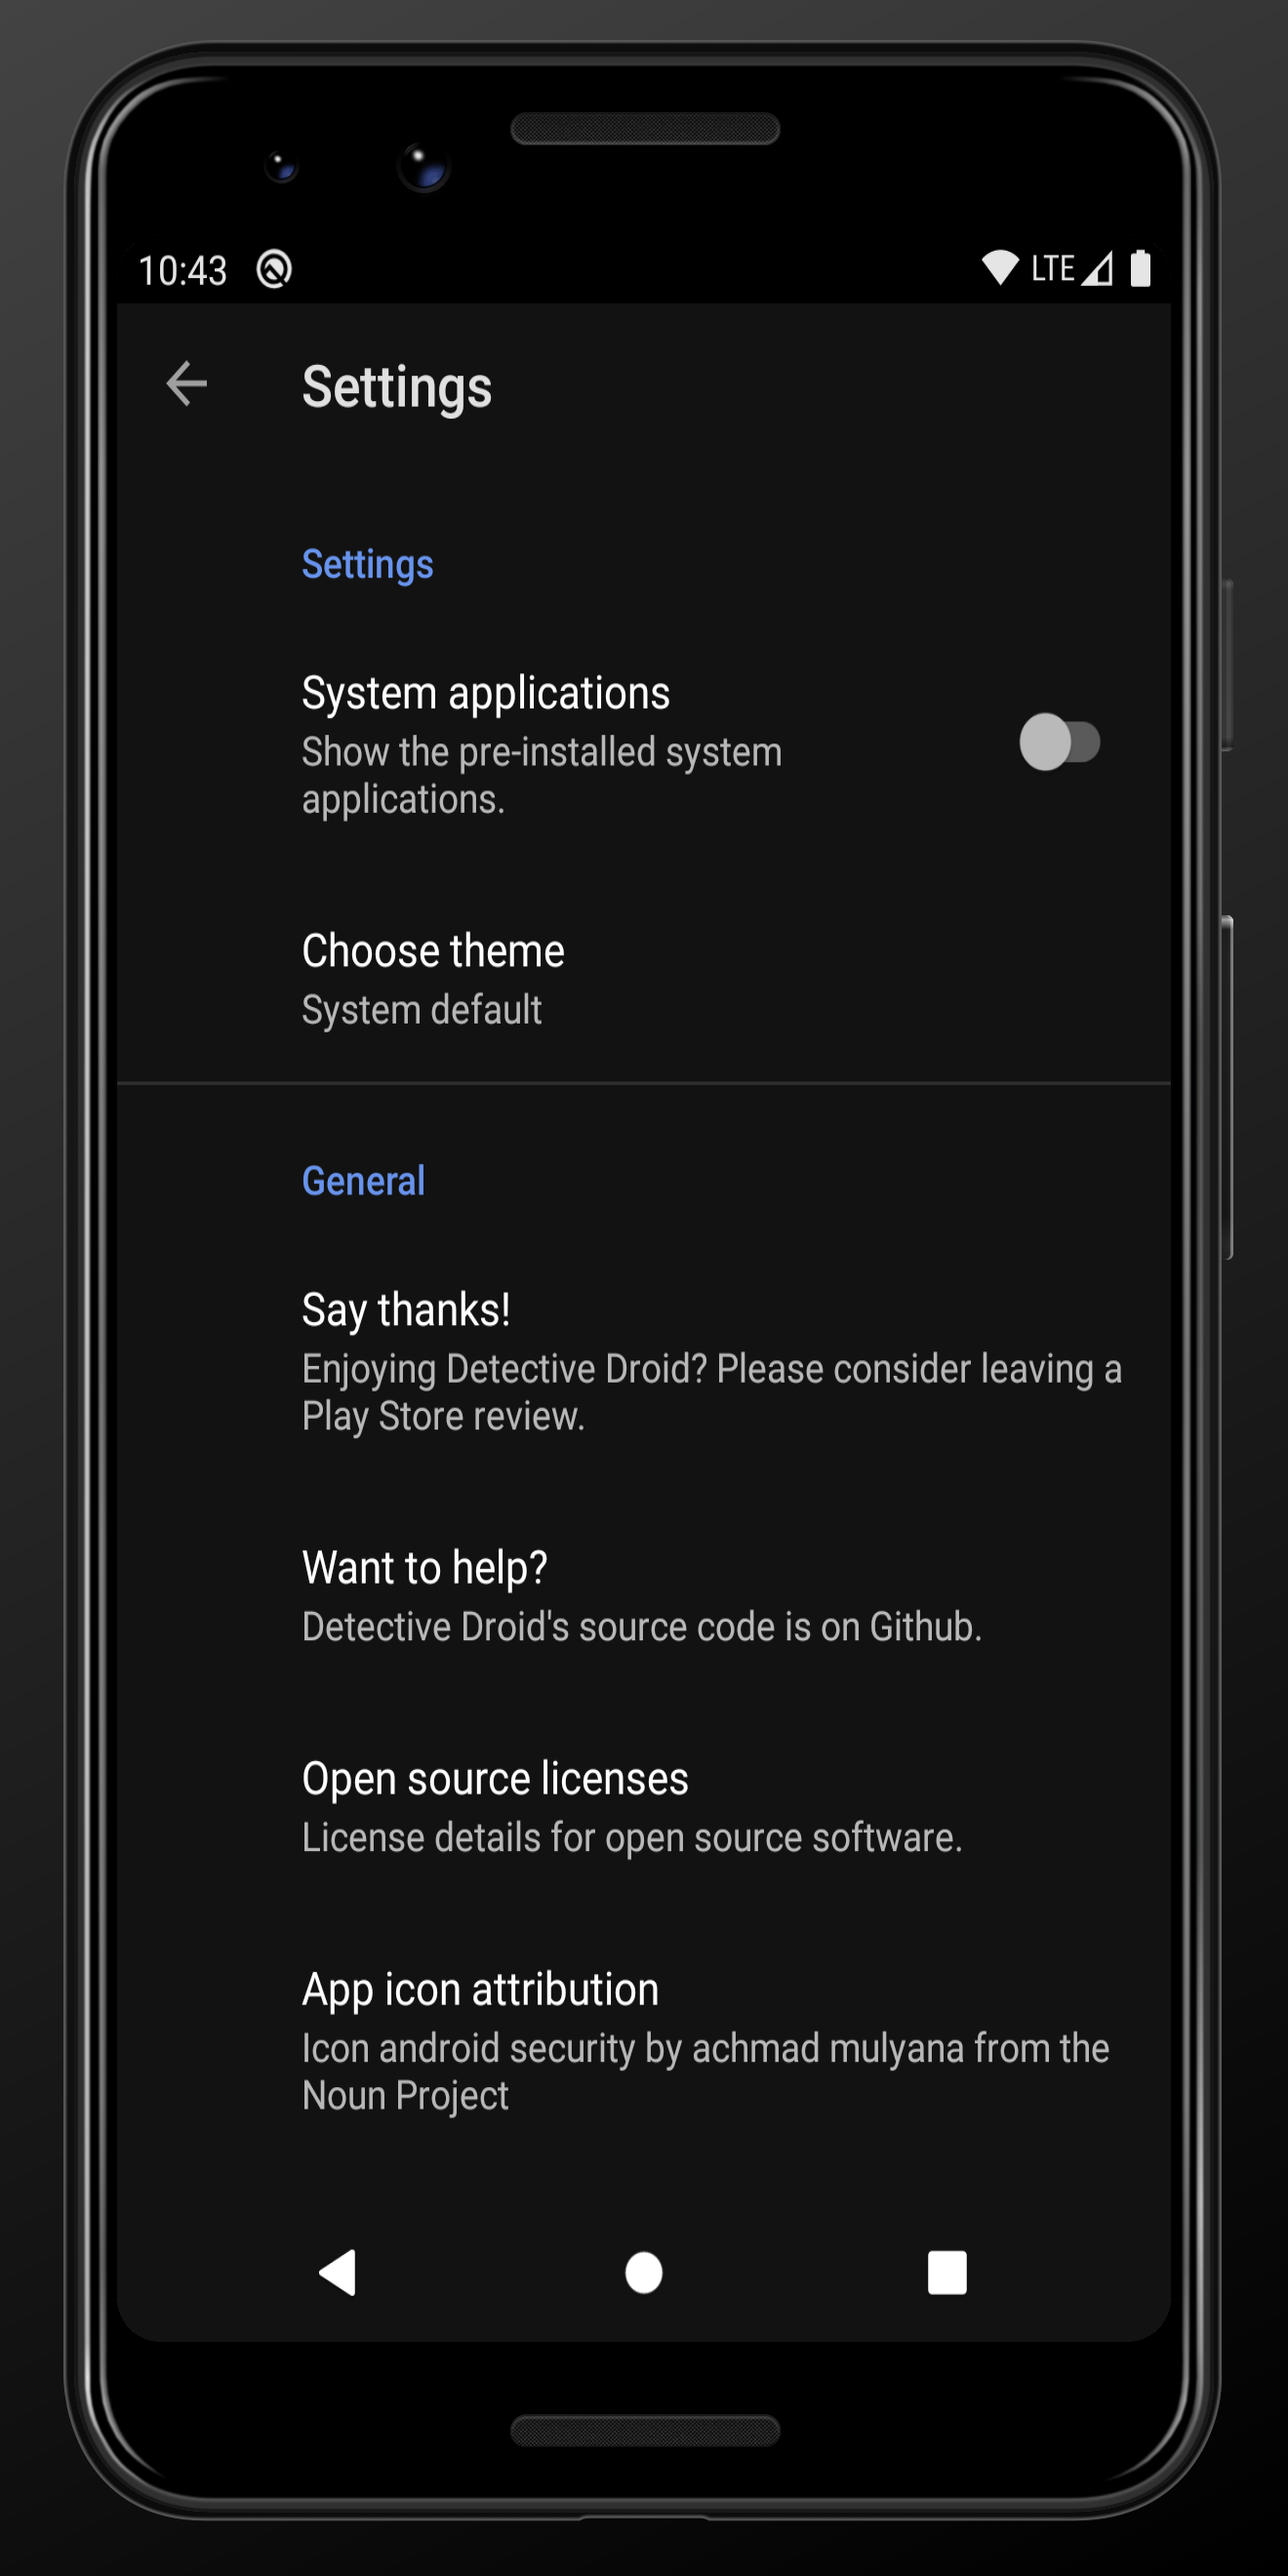
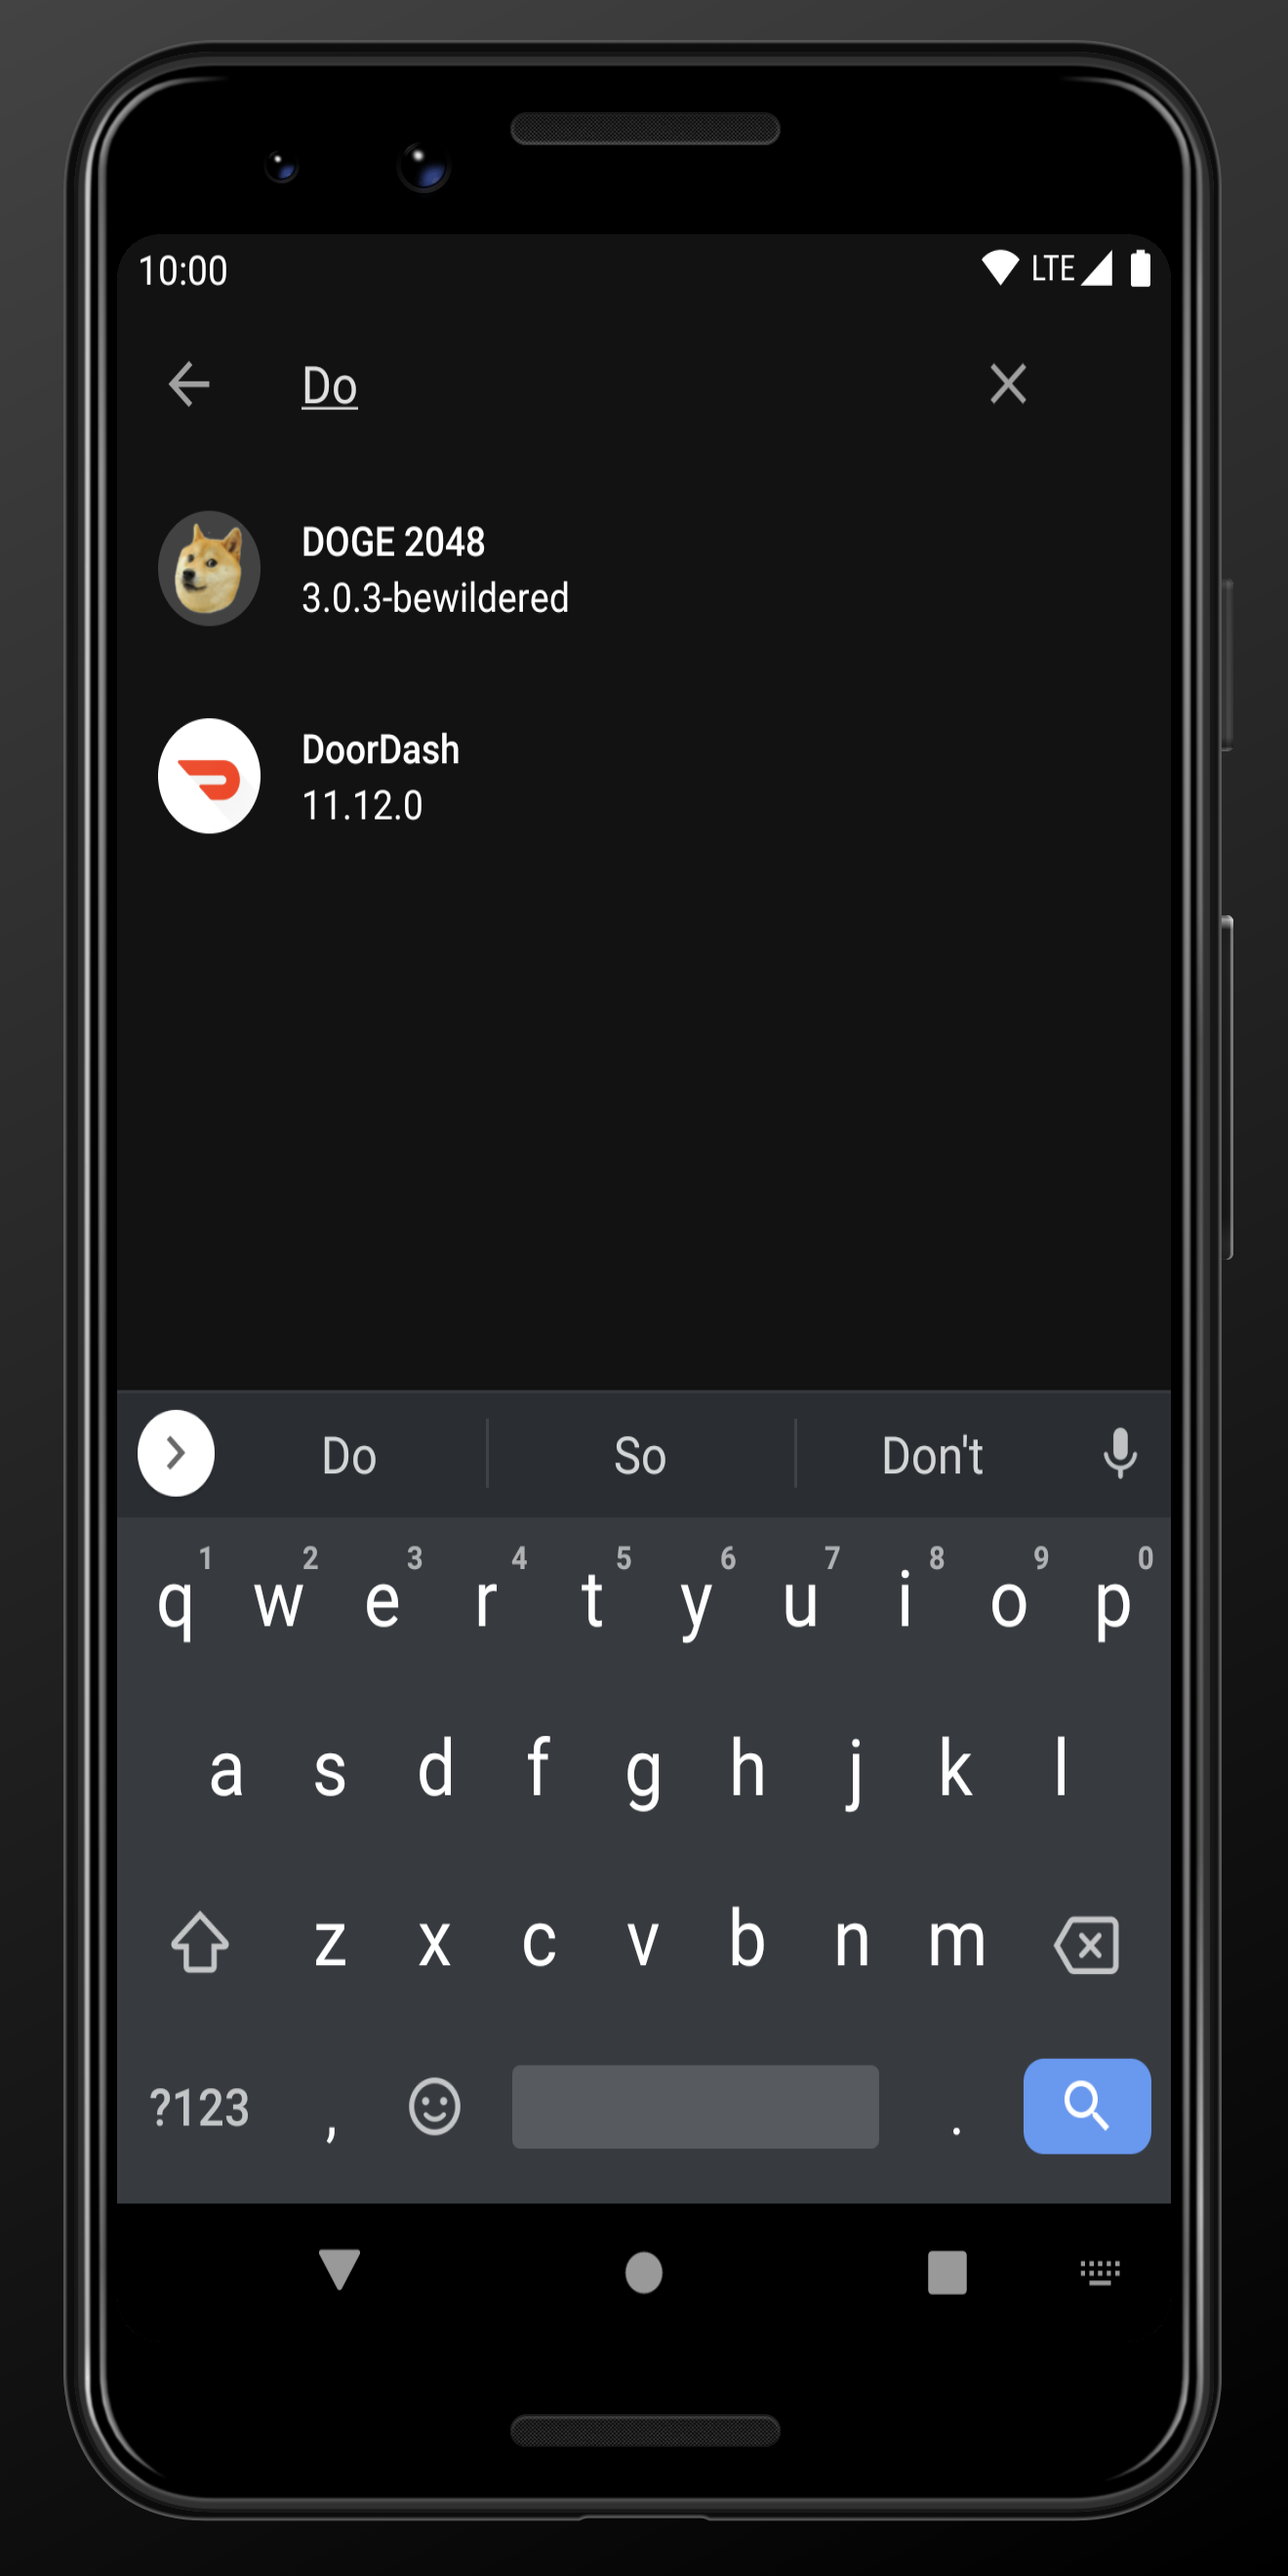
Release 2.1.0 (#28)
* Update version code + name for v2.1.0

* Update CHANGELOG for v2.1.0

* Update fastlane metadata for v2.1.0 release

diff --git a/CHANGELOG.md b/CHANGELOG.md
@@ -1,5 +1,9 @@
 Change Log
 ==========
+## 2.1.0
+* Implement search functionality. https://github.com/michaelcarrano/detective-droid/pull/26
+* Add additional test coverage and other minor refactoring
+
 
 ## 2.0.0
 * Complete re-write of detective droid app with modern approach to Android development.
